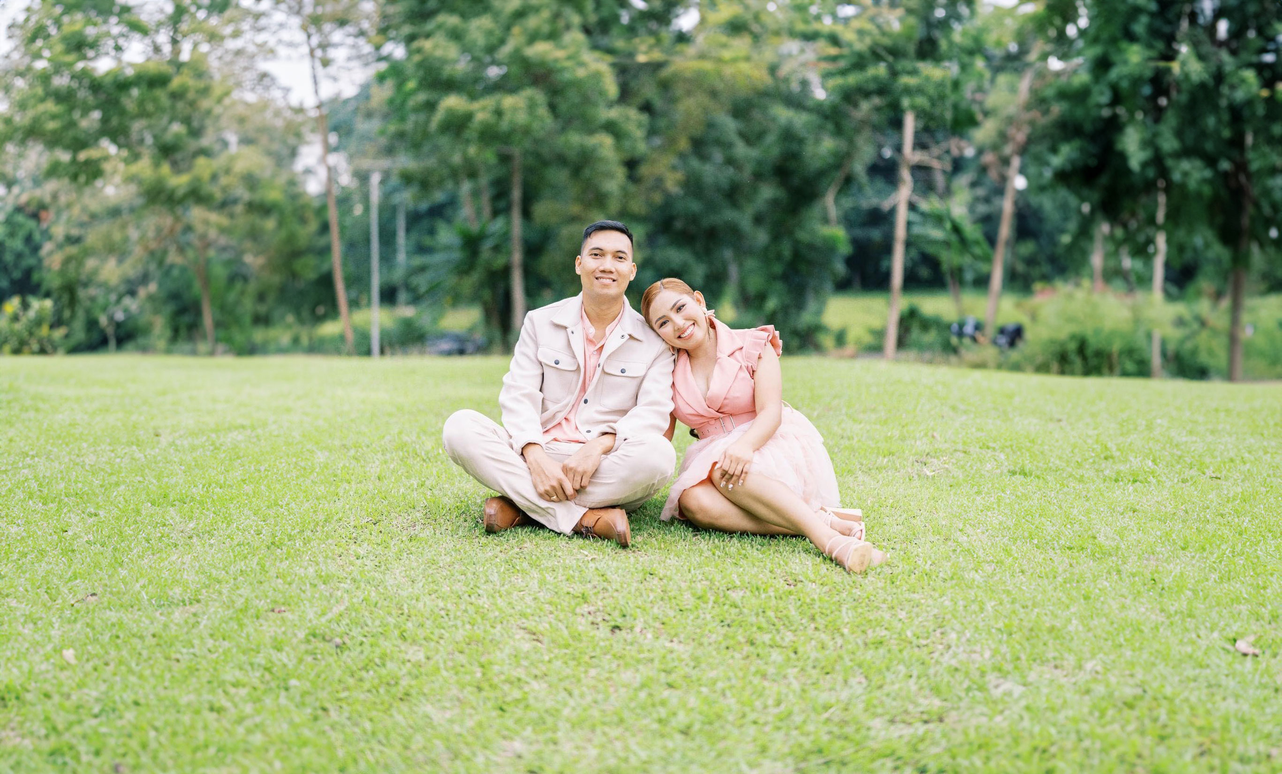
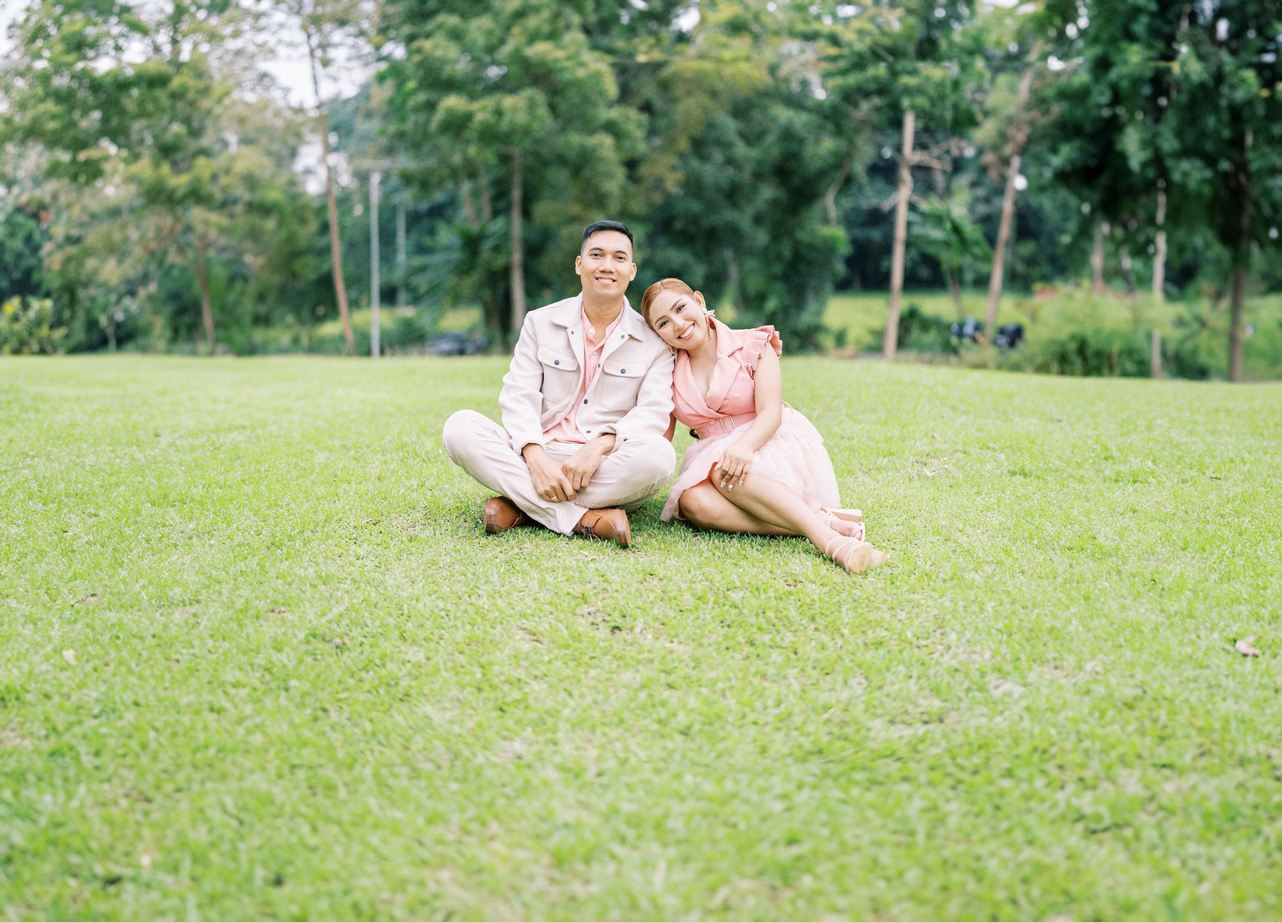
commit

diff --git a/src/components/HeroSection.tsx b/src/components/HeroSection.tsx
@@ -19,8 +19,8 @@ const HeroSection:React.FC<HeroSectionProps> = () => {
         <div className="bg-gray-900">
             <div className="relative isolate overflow-hidden pt-14">
                 <Image
-                    src="/assets/images/hero-bg-image-zai.jpg"
-                    className="absolute inset-0 -z-10 h-full w-full object-cover opacity-50" 
+                    src="/assets/images/hero-bg-image-zai-1.jpg"
+                    className="absolute inset-0 -z-10 h-full w-full object-cover opacity-50 object-bottom" 
                     alt="Picture of the author"
                     width={2000}
                     height={2000}
